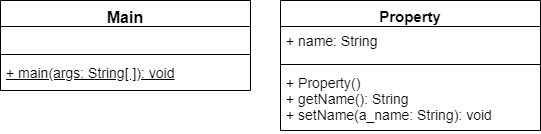
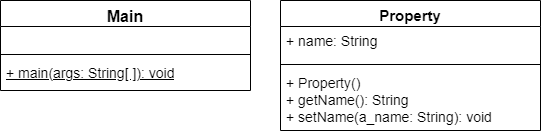
Fix UML

Changed region(s): [[0.5323, 0.6866, 0.9168, 0.9552], [0.7098, 0.0597, 0.8281, 0.1791], [0.207, 0.0896, 0.2662, 0.1791]]

diff --git a/content/12-classes/05-java/09-properties/_index.md b/content/12-classes/05-java/09-properties/_index.md
@@ -8,6 +8,12 @@ weight: 90
 
 [Video Materials]({{% relref "./video" %}})
 
+{{% notice important "UML Diagram Incorrect" %}}
+
+In the video, the UML diagram incorrectly shows the `name` property as a public property with a `+` symbol. However, in the code, it is shown as a private property, which is the correct design. The design is also corrected in the example below.
+
+{{% /notice %}}
+
 So far in this chapter we've learned how to create private and public attributes in our classes. What if we want to create an attribute that is read-only, or one that only accepts a particular set of values? In Java, we can do that using a pattern of _getter_ and _setter_ methods. 
 
 Some languages use the term _property_ to refer to an attribute that is typically accessed using _getter_ and _setter_ methods. We will use that term in this context for now. 
@@ -83,8 +89,6 @@ As a general rule, it is always recommended to use the `this` keyword to access 
 ## UML Class Diagrams
 
 Getter and setter methods are displayed on a UML class diagram just like any other method. We use naming conventions such as `getName()` and `setName()` to make it clear that those methods are getters and setters for the attribute `name`, as in this UML class diagram:
-
-<!-- TODO UML Incorrect - name property should be private -->
 
 ![UML Class Diagram with Properties](/images/12-class/11.6.j.9.propertyuml.png)
 
